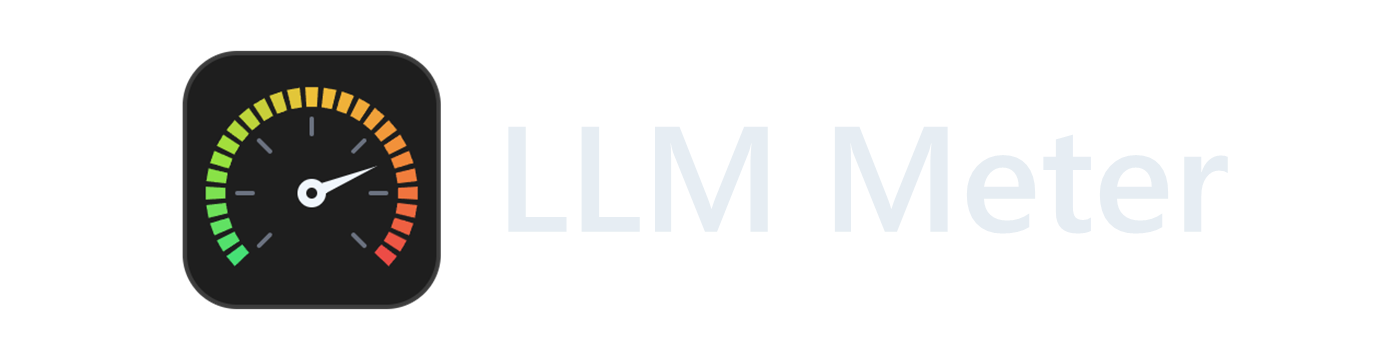
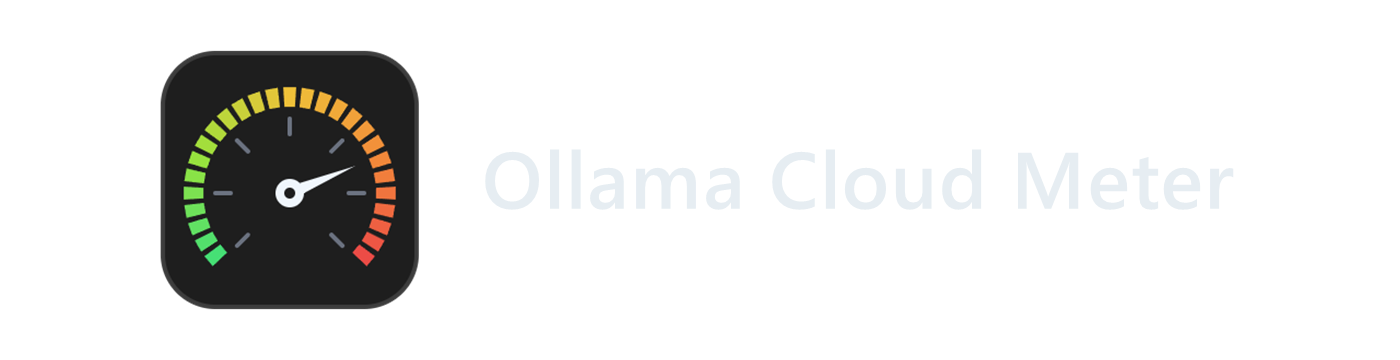
chore(marketplace): rename to Ollama Cloud Meter and prepare for publishing
New extension ID DiogoLogrado.ollama-cloud-meter, unofficial notice, install options (Marketplace or Releases .vsix), Marketplace metadata, single package script, CHANGELOG, banners with the new name, URLs for the renamed repo.

Changed region(s): [[0.0921, 0.1222, 0.8907, 0.8556]]

diff --git a/src/ui.js b/src/ui.js
@@ -5,10 +5,10 @@ const { fetchUsage } = require('./request');
 const config = require('./config');
 
 const ENV_VAR = 'OLLAMA_API_KEY';
-const SECRET_NAME = 'llmMeter.ollama.apiKey';
-const WARN_KEY = 'llmMeter.warnAtPercent';
-const ERROR_KEY = 'llmMeter.errorAtPercent';
-const REFRESH_KEY = 'llmMeter.refreshSeconds';
+const SECRET_NAME = 'ollamaCloudMeter.ollama.apiKey';
+const WARN_KEY = 'ollamaCloudMeter.warnAtPercent';
+const ERROR_KEY = 'ollamaCloudMeter.errorAtPercent';
+const REFRESH_KEY = 'ollamaCloudMeter.refreshSeconds';
 
 // HSL -> hex; HSL keeps good contrast on light and dark themes.
 function hsl(h, s, l) {
@@ -74,8 +74,8 @@ const details = (windows) =>
   });
 
 function tooltip(windows) {
-  const refresh = '[$(refresh) Refresh](command:llmMeter.refresh "Reload usage now")';
-  const gear = '[$(gear) Set thresholds](command:llmMeter.setThresholds "Percentages where the gradient switches")';
+  const refresh = '[$(refresh) Refresh](command:ollamaCloudMeter.refresh "Reload usage now")';
+  const gear = '[$(gear) Set thresholds](command:ollamaCloudMeter.setThresholds "Percentages where the gradient switches")';
   return [
     '### Ollama Cloud',
     '',
@@ -120,7 +120,7 @@ function activate(context) {
     lastRun = Date.now();
     const key = ((await context.secrets.get(SECRET_NAME)) || process.env[ENV_VAR] || '').trim();
     if (!key) {
-      message('Set API key', `Run "LLM Meter: Set API Key" from the Command Palette, or set ${ENV_VAR} and restart VS Code.`);
+      message('Set API key', `Run "Ollama Cloud Meter: Set API Key" from the Command Palette, or set ${ENV_VAR} and restart VS Code.`);
       return;
     }
     try {
@@ -140,8 +140,8 @@ function activate(context) {
   context.subscriptions.push(
     bar,
     { dispose: () => clearInterval(timer) },
-    vscode.commands.registerCommand('llmMeter.refresh', refresh),
-    vscode.commands.registerCommand('llmMeter.setApiKey', async () => {
+    vscode.commands.registerCommand('ollamaCloudMeter.refresh', refresh),
+    vscode.commands.registerCommand('ollamaCloudMeter.setApiKey', async () => {
       const key = await vscode.window.showInputBox({
         title: 'Ollama API key',
         prompt: 'Stored in the OS keychain via VS Code Secret Storage. Only ever sent to ollama.com.',
@@ -153,7 +153,7 @@ function activate(context) {
         refresh();
       }
     }),
-    vscode.commands.registerCommand('llmMeter.setThresholds', async () => {
+    vscode.commands.registerCommand('ollamaCloudMeter.setThresholds', async () => {
       const { warn, error } = thresholds();
       const validate = (value, minimum) => {
         if (value.trim() === '' || !Number.isFinite(+value) || +value < 0 || +value > 100) return 'Enter a number between 0 and 100.';
@@ -176,7 +176,7 @@ function activate(context) {
       await context.globalState.update(ERROR_KEY, Number(e));
       refresh();
     }),
-    vscode.commands.registerCommand('llmMeter.setInterval', async () => {
+    vscode.commands.registerCommand('ollamaCloudMeter.setInterval', async () => {
       const current = context.globalState.get(REFRESH_KEY, config.refreshSeconds);
       const value = await vscode.window.showInputBox({
         title: 'Refresh interval in seconds',

diff --git a/src/config.js b/src/config.js
@@ -3,9 +3,9 @@
  * The two thresholds and the refresh interval are changed at runtime instead, from the Command Palette.
  *
  * @typedef {Object} Config
- * @property {number} warnAtPercent Used percent where the gradient reaches colors.warn (default 80). Also editable at runtime with "LLM Meter: Set Threshold Percentages".
+ * @property {number} warnAtPercent Used percent where the gradient reaches colors.warn (default 80). Also editable at runtime with "Ollama Cloud Meter: Set Threshold Percentages".
  * @property {number} errorAtPercent Used percent where the gradient reaches colors.over (default 95) and stays there.
- * @property {number} refreshSeconds Seconds between polls; 0 = no timer (default 60). Also editable at runtime with "LLM Meter: Set Refresh Interval".
+ * @property {number} refreshSeconds Seconds between polls; 0 = no timer (default 60). Also editable at runtime with "Ollama Cloud Meter: Set Refresh Interval".
  * @property {boolean} refreshOnWindowFocus Also refresh when VS Code regains focus (default true).
  * @property {[number, number, number]} colors.ok [hue, saturation, lightness] where the gradient starts (default green).
  * @property {[number, number, number]} colors.warn Middle stop (default amber).

diff --git a/scripts/preflight.js b/scripts/preflight.js
@@ -8,7 +8,7 @@ if (major < REQUIRED_MAJOR) {
   const line = '-'.repeat(60);
   console.error('');
   console.error(line);
-  console.error('  llm-meter: unsupported Node.js version');
+  console.error('  ollama-cloud-meter: unsupported Node.js version');
   console.error(line);
   console.error('  required : Node.js >= ' + REQUIRED_MAJOR);
   console.error('  current  : Node.js ' + current);

diff --git a/README.md b/README.md
@@ -1,14 +1,18 @@
 <p align="center">
   <picture>
-    <source media="(prefers-color-scheme: dark)" srcset="images/banner-dark.png">
-    <img src="images/banner-light.png" width="700" alt="LLM Meter">
+    <source media="(prefers-color-scheme: dark)" srcset="https://raw.githubusercontent.com/DiogoLogrado/ollama-cloud-meter/main/images/banner-dark.png">
+    <img src="https://raw.githubusercontent.com/DiogoLogrado/ollama-cloud-meter/main/images/banner-light.png" width="700" alt="Ollama Cloud Meter">
   </picture>
 </p>
 <p align="center">
-  <img src="https://img.shields.io/github/package-json/v/DiogoLogrado/llm-meter" alt="version">
+  <img src="https://img.shields.io/github/package-json/v/DiogoLogrado/ollama-cloud-meter" alt="version">
   <img src="https://img.shields.io/badge/license-Unlicense-blue" alt="license">
   <img src="https://img.shields.io/badge/VS%20Code-%5E1.93.0-007ACC" alt="VS Code">
 </p>
+
+> **Unofficial:** This is a community project. It is not affiliated with, endorsed by or
+> supported by Ollama. "Ollama" is a trademark of its owner and is used here only to say
+> which service the extension works with.
 
 > **Disclaimer:** I did not write any of the code in this project. It was all
 > generated by AI, which I only directed by describing what I wanted
@@ -23,7 +27,7 @@ A small status bar meter for Ollama Cloud usage limits:
 ```
 
 One status bar item showing session and weekly usage, tinted by a colour ramp driven by the
-higher of the two, with the time until each window resets. You can hover for the details and the tooltip also has Refresh button, and a "Gear" button to set the thresholds. Local install only: no marketplace, no telemetry, no auto-update, no dependencies for now.
+higher of the two, with the time until each window resets. You can hover for the details and the tooltip also has Refresh button, and a "Gear" button to set the thresholds. No telemetry, no dependencies, one network request.
 
 ## Files
 
@@ -46,7 +50,21 @@ Authorization: Bearer <your Ollama API key>
 
 The balance endpoint is undocumented, so it may change or behave differently from what is assumed here. If it stops working, please open an issue.
 
-## Build and install
+## Install
+
+Pick one:
+
+- **Marketplace:** search for "Ollama Cloud Meter" in the Extensions view. VS Code
+  updates it automatically unless you turn that off.
+- **No auto-update:** download `ollama-cloud-meter.vsix` from the
+  [GitHub Releases](https://github.com/DiogoLogrado/ollama-cloud-meter/releases) page and run
+  **Extensions: Install from VSIX...** from the Command Palette. Nothing changes until
+  you install a newer file yourself.
+- **Build it yourself:** see below.
+
+A `.vsix` is just a zip file, so you can rename a copy to `.zip` and look inside: the source ships readable and unminified, next to `package.json`, the LICENSE, the README and the icon. No bundled dependencies, nothing obfuscated.
+
+## Build from source
 
 You need [Node.js](https://nodejs.org) 18 or newer. If the version is too old the
 build stops with a clear message instead of a stack trace. With
@@ -54,38 +72,32 @@ build stops with a clear message instead of a stack trace. With
 pick up the version in `.nvmrc`.
 
 ```powershell
-git clone <this repo>
-cd llm-meter
-npm run package            # checks Node, then creates dist/llm-meter-ollama.vsix
-npm run package:ollama     # the same, spelled out per provider
+git clone https://github.com/DiogoLogrado/ollama-cloud-meter
+cd ollama-cloud-meter
+npm run package            # checks Node, then creates dist/ollama-cloud-meter.vsix
 ```
-
-Providers are plain npm scripts in `package.json`; Ollama is the only one today.
-Adding one in the future (Claude) is a new `package:<provider>` line.
 
 Then in VS Code:
 
 1. Press `Ctrl+Shift+P` (`Cmd+Shift+P` on macOS) to open the Command Palette.
 2. Run **Extensions: Install from VSIX...**
-3. Pick `dist/llm-meter-ollama.vsix`.
+3. Pick `dist/ollama-cloud-meter.vsix`.
 4. Reload the window if asked.
 
-Command line alternative: `code --install-extension dist/llm-meter-ollama.vsix`.
+Command line alternative: `code --install-extension dist/ollama-cloud-meter.vsix`.
 
 To update, rebuild the `.vsix` and install it again.
-To remove it, uninstall "LLM Meter" from the Extensions view.
-
-A `.vsix` is just a zip file, so you can rename a copy to `.zip` and look inside: the source ships readable and unminified, next to `package.json`, the LICENSE, the README and the icon. No bundled dependencies, nothing obfuscated.
+To remove it, uninstall "Ollama Cloud Meter" from the Extensions view.
 
 ## Use
 
-1. Run **LLM Meter: Set API Key** from the Command Palette.
+1. Run **Ollama Cloud Meter: Set API Key** from the Command Palette.
 2. The meter appears in the status bar.
 
-**LLM Meter: Set Refresh Interval** changes how often usage is checked (0 turns the timer off).
-**LLM Meter: Set Threshold Percentages** changes the two thresholds.
+**Ollama Cloud Meter: Set Refresh Interval** changes how often usage is checked (0 turns the timer off).
+**Ollama Cloud Meter: Set Threshold Percentages** changes the two thresholds.
 Everything else lives in [src/config.js](src/config.js).
 
 ## Change how it looks
 
-Edit `src/config.js` for the gradient colours and the focus refresh, or `src/ui.js` for the status bar text and tooltip. Rebuild and reinstall afterwards.
+Edit `src/config.js` for the gradient colours and the focus refresh, or `src/ui.js` for the status bar text and tooltip. Build from source and reinstall afterwards.

diff --git a/CHANGELOG.md b/CHANGELOG.md
@@ -1,0 +1,11 @@
+# Changelog
+
+## 0.2.0
+
+- Renamed from "LLM Meter" to "Ollama Cloud Meter" for the Marketplace. The extension ID
+  changed, so run **Ollama Cloud Meter: Set API Key** again and uninstall the old "LLM Meter".
+- One build: `npm run package` creates `dist/ollama-cloud-meter.vsix`.
+
+## 0.1.0
+
+- First version: session and weekly Ollama Cloud usage in the status bar.
